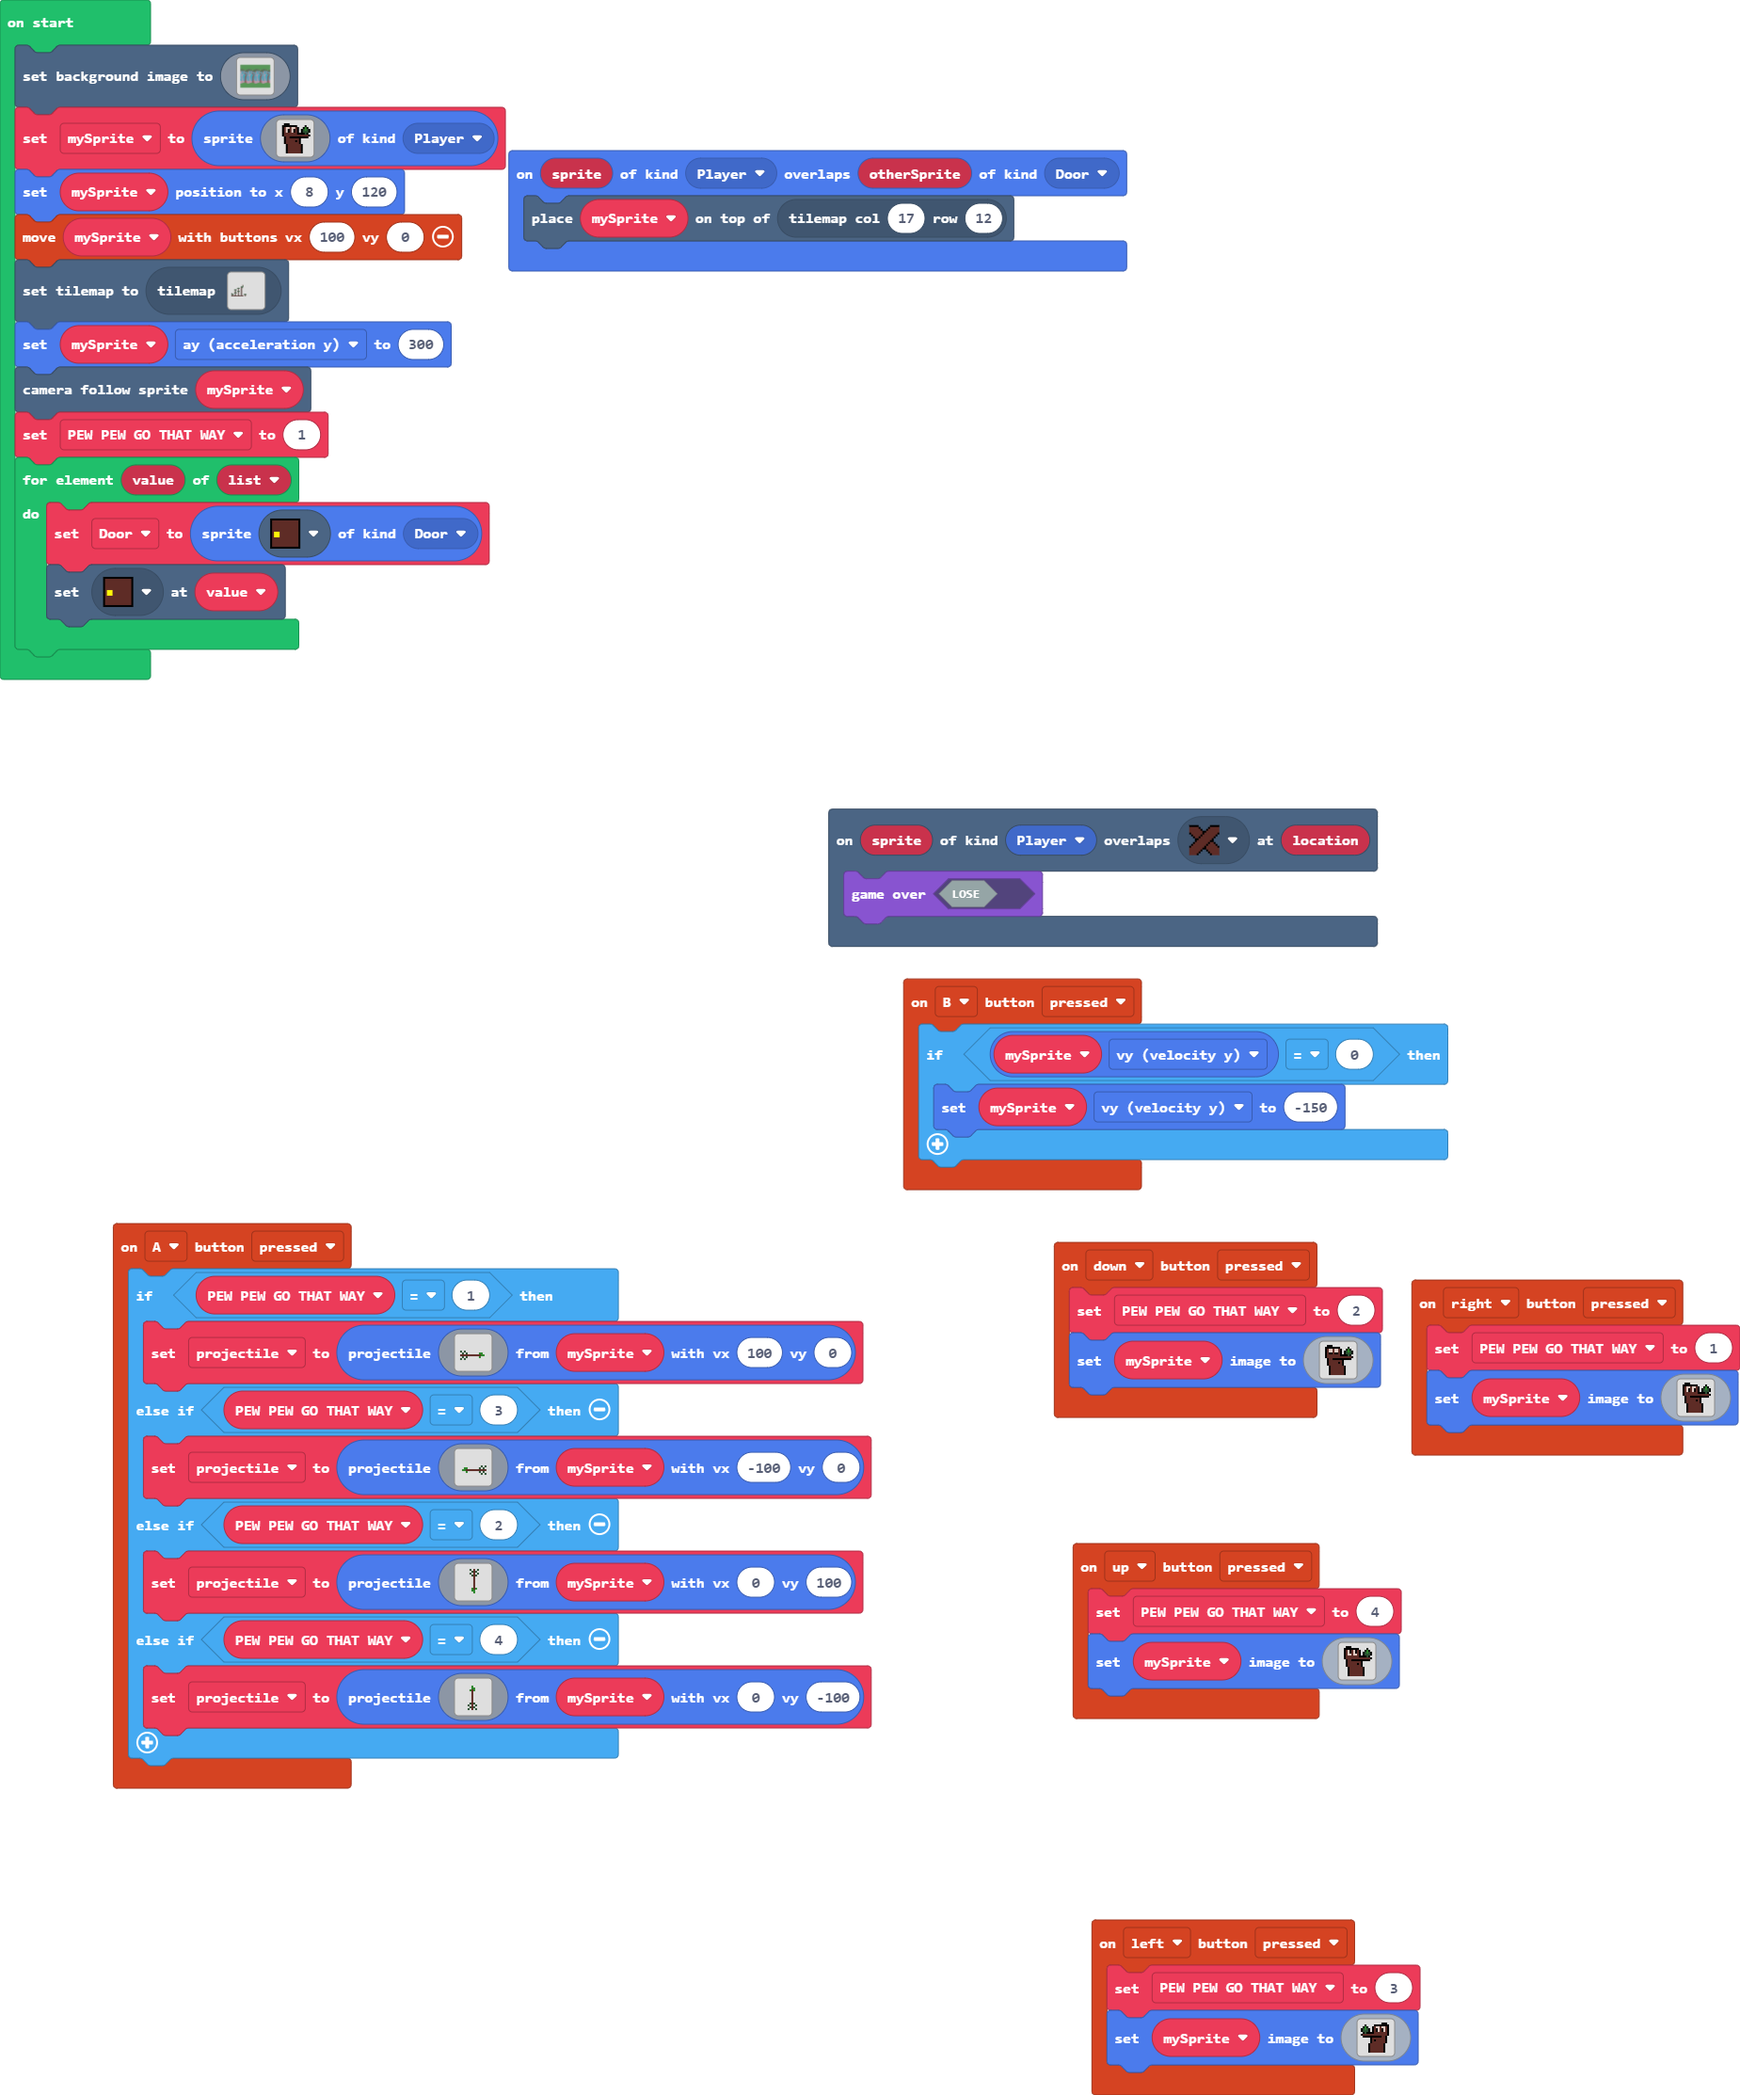
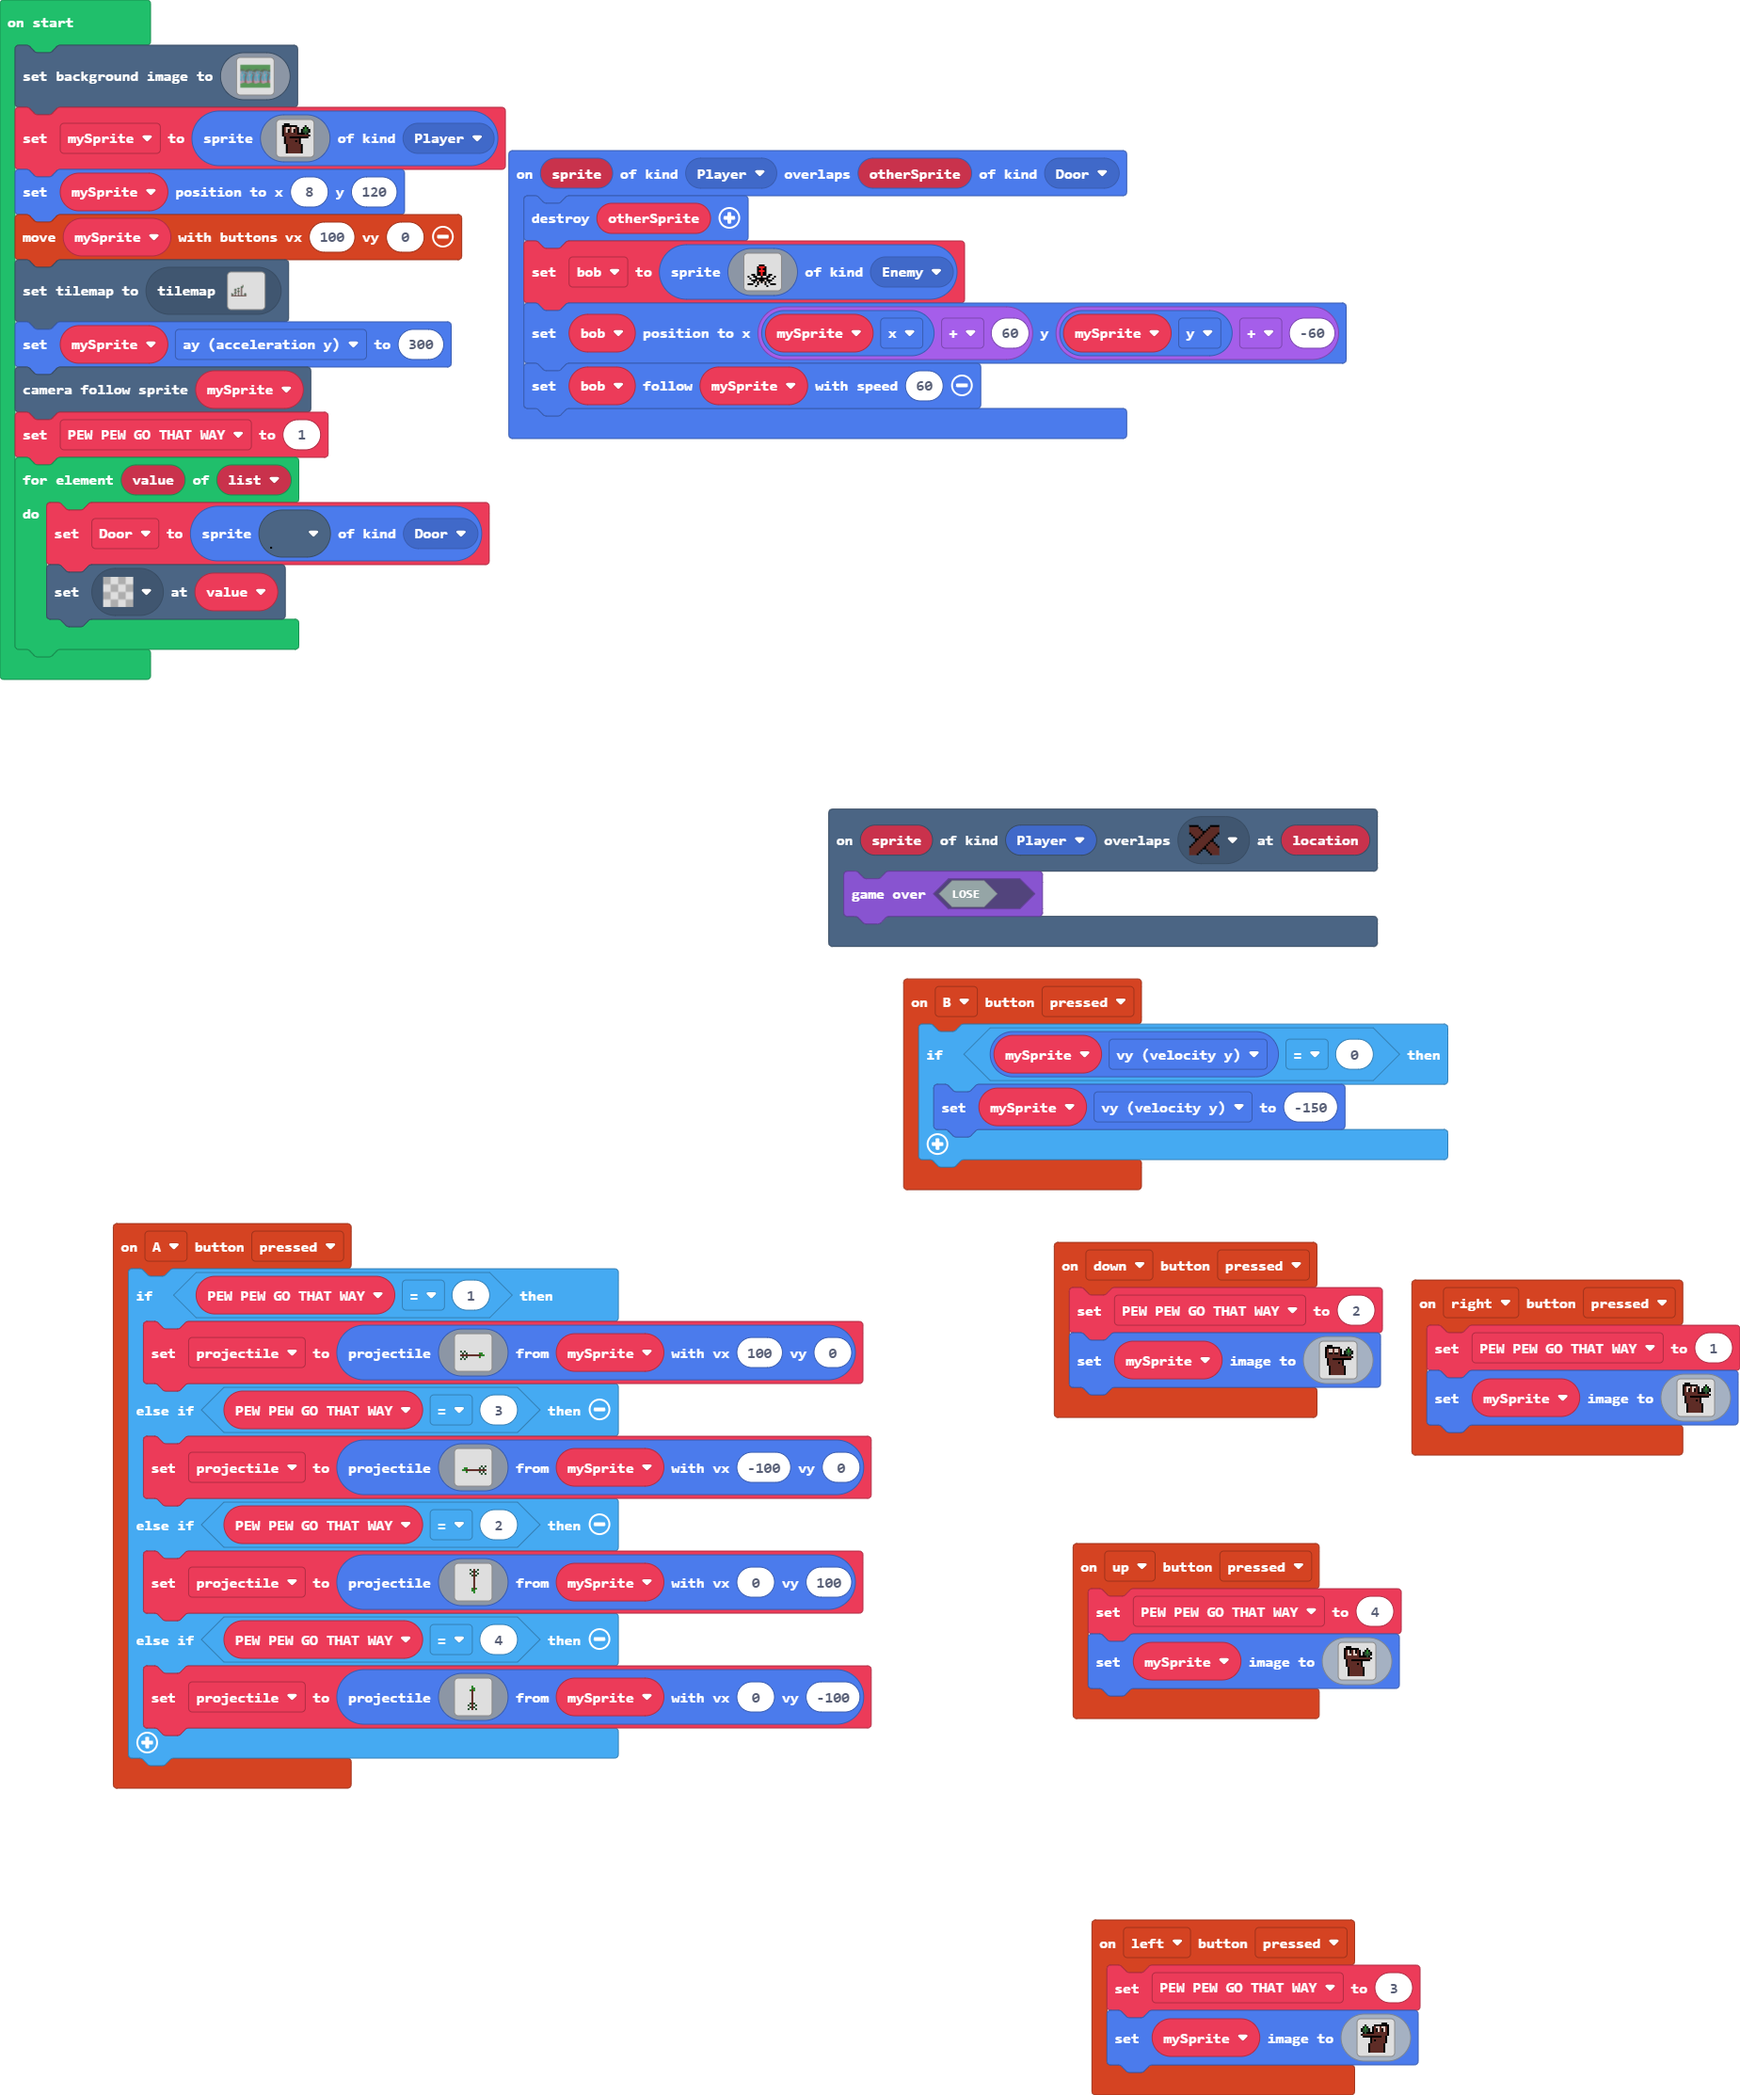
Update main.blocks, main.ts, tilemap.g.jres, tilemap.g.ts

Changed region(s): [[0.2774, 0.093, 0.7707, 0.217], [0.1541, 0.248, 0.185, 0.279], [0.0617, 0.279, 0.0925, 0.31]]

diff --git a/tilemap.g.ts b/tilemap.g.ts
@@ -34,25 +34,6 @@ namespace myTiles {
 . . . . . . . . . . . . . . . . 
 . . . . . . . . . . . . . . . . 
 `, [myTiles.transparency16], TileScale.Sixteen);
-            case "level2":
-            case "level2":return tiles.createTilemap(hex`2800100000000000000000000000000000000000000000000000000000000000000000000000000000000000000000000000000000000000000000050000000000000000000000000000000000000000000000000000000000000000000000000000000200000000000000000000000000000000000000000000000000000000000000000000000000020202000000000000000000000000000000000000000000000000000000000000000000000000000102000000000000000000000000000000000000000000000000000000000000000000020202000001000000000000000000000000000000000000000000000000000000000000000000000001000000010000000000000000000000000000000000000000000000000000000000000202020000010000000100000000000000000000000000000000000000000000000000000000000000010000000100000001000000000000000000000000000000000000000000000000000000000000000100000202020000010000000000000000000000000000000000000000000000000000000000000001000000010000000100000000000000000000000000000000000000000000000000000000000002020200000100000001000000000000000000000000000000000000000000000000000003000000000100000001000000010000000000000000000000000000000000000000000000000000020202000001000000010000000100000002020200000000000000000000000000000000000000000001000000010000000100000001000000000100000000000000000000000000000000000000000004010404040104040401040404010404000001000000000000000000000000000000000000000000`, img`
-................2.......................
-................2.......................
-...............22.......................
-.............2222.......................
-.............22.2.......................
-........222..2..2.......................
-.............2..2.......................
-....222......2..2.......................
-.............2..2.......................
-........222..2..2.......................
-.........2...2..2.......................
-....222..2...2..2.......................
-.....2...2...2..2.......................
-222..2...2...2..2222....................
-.2...2...2...2..2.......................
-.2...2...2...2..2.......................
-`, [myTiles.transparency16,myTiles.tile1,myTiles.tile2,myTiles.tile3,myTiles.tile4,myTiles.tile5], TileScale.Sixteen);
             case "level3":
             case "level3":return tiles.createTilemap(hex`1000100000000000000000000000000000000000000000000000000000000000000000000000000000000000000000000000000000000000000000000000000000000000000000000000000000000000000000000000000000000000000000000000000000000000000000000000000000000000000000000000000000000000000000000000000000000000000000000000000000000000000000000000000000000000000000000000000000000000000000000000000000000000000000000000000000000000000000000000000000000000000000000000000000000000000000000000000000000000000000000000000000000000000000000000000000000000`, img`
 . . . . . . . . . . . . . . . . 
@@ -72,6 +53,44 @@ namespace myTiles {
 . . . . . . . . . . . . . . . . 
 . . . . . . . . . . . . . . . . 
 `, [myTiles.transparency16], TileScale.Sixteen);
+            case "level4":
+            case "level4":return tiles.createTilemap(hex`1000100000000000000000000000000000000000000000000000000000000000000000000000000000000000000000000000000000000000000000000000000000000000000000000000000000000000000000000000000000000000000000000000000000000000000000000000000000000000000000000000000000000000000000000000000000000000000000000000000000000000000000000000000000000000000000000000000000000000000000000000000000000000000000000000000000000000000000000000000000000000000000000000000000000000000000000000000000000000000000000000000000000000000000000000000000000000`, img`
+. . . . . . . . . . . . . . . . 
+. . . . . . . . . . . . . . . . 
+. . . . . . . . . . . . . . . . 
+. . . . . . . . . . . . . . . . 
+. . . . . . . . . . . . . . . . 
+. . . . . . . . . . . . . . . . 
+. . . . . . . . . . . . . . . . 
+. . . . . . . . . . . . . . . . 
+. . . . . . . . . . . . . . . . 
+. . . . . . . . . . . . . . . . 
+. . . . . . . . . . . . . . . . 
+. . . . . . . . . . . . . . . . 
+. . . . . . . . . . . . . . . . 
+. . . . . . . . . . . . . . . . 
+. . . . . . . . . . . . . . . . 
+. . . . . . . . . . . . . . . . 
+`, [myTiles.transparency16], TileScale.Sixteen);
+            case "level2":
+            case "level2":return tiles.createTilemap(hex`2800100000000000000000000000000000000000000000000000000000000000000000000000000000000000000000000000000000000000000000050000000000000000000000000000000000000000000000000000000000000000000000000000000200000000000000000000000000000000000000000000000000000000000000000000000000020202000000000000000000000000000000000000000000000000000000000000000000000000000102000000000000000000000000000000000000000000000000000000000000000000020202000001000000000000000000000000000000000000000000000000000000000000000300000001000000010000000000000000000000000000000000000000000000000000000000000202020000010000000100000000000000000000000000000000000000000000000000000000000000010000000100000001000000000000000000000000000000000000000000000000000000000000000100000202020000010000000000000000000000000000000000000000000000000000000000000001000000010000000100000000000000000000000000000000000000000000000000000000000002020200000100000001000000000000000000000000000000000000000000000000000003000000000100000001000000010000000003000000000000000000000000000000000000000000020202000001000000010000000100000002020200000000000000000000000000000000000000000001000000010000000100000001000000000100000000000000000000000000000000000000000004010404040104040401040404010404040401040000000000000000000000000000000000000000`, img`
+........................................
+........................................
+...............2........................
+.............222........................
+.............22.........................
+........222..2..........................
+.............2..........................
+....222......2..........................
+.............2..........................
+........222..2..........................
+.........2...2..........................
+....222..2...2..........................
+.....2...2...2..........................
+222..2...2...2...222....................
+.2...2...2...2....2.....................
+.2...2...2...2....2.....................
+`, [myTiles.transparency16,myTiles.tile1,myTiles.tile2,myTiles.tile3,myTiles.tile4,myTiles.tile5], TileScale.Sixteen);
         }
         return null;
     })

diff --git a/main.ts b/main.ts
@@ -1,5 +1,6 @@
 namespace SpriteKind {
     export const Door = SpriteKind.create()
+    export const bob = SpriteKind.create()
 }
 let list: tiles.Location[] = []
 controller.up.onEvent(ControllerButtonEvent.Pressed, function () {
@@ -129,7 +130,27 @@ controller.left.onEvent(ControllerButtonEvent.Pressed, function () {
         `)
 })
 sprites.onOverlap(SpriteKind.Player, SpriteKind.Door, function (sprite, otherSprite) {
-    tiles.placeOnTile(mySprite, tiles.getTileLocation(17, 12))
+    sprites.destroy(otherSprite)
+    bob = sprites.create(img`
+        . . . . . . . . . . . . . . . . 
+        . . . . . . . . . . . . . . . . 
+        . . . . . . . . . . . . . . . . 
+        . . . . . . . . . . . . . . . . 
+        . . . . . . f f f . . . . . . . 
+        . . . . . f 2 2 2 f . . . . . . 
+        . . . . . f f 2 f f . . . . . . 
+        . . . . . f 2 2 2 f . . . . . . 
+        . . . . . f f 2 f f . . . . . . 
+        . . f f . f f 2 f f . f f . . . 
+        f . . f f . d f d . f f . . f . 
+        . f . . f f f f f f f . . f . . 
+        . . f f f d f f f d f f f . . . 
+        . . . f . f d f d f . f . . . . 
+        f f f . . f . . . f . . f f f . 
+        . . . . f . . . . . f . . . . . 
+        `, SpriteKind.Enemy)
+    bob.setPosition(mySprite.x + 60, mySprite.y + -60)
+    bob.follow(mySprite, 60)
 })
 controller.right.onEvent(ControllerButtonEvent.Pressed, function () {
     PEW_PEW_GO_THAT_WAY = 1
@@ -176,6 +197,7 @@ controller.down.onEvent(ControllerButtonEvent.Pressed, function () {
 scene.onOverlapTile(SpriteKind.Player, assets.tile`myTile2`, function (sprite, location) {
     game.gameOver(false)
 })
+let bob: Sprite = null
 let projectile: Sprite = null
 let Door: Sprite = null
 let PEW_PEW_GO_THAT_WAY = 0
@@ -327,6 +349,6 @@ mySprite.ay = 300
 scene.cameraFollowSprite(mySprite)
 PEW_PEW_GO_THAT_WAY = 1
 for (let value of list) {
-    Door = sprites.create(assets.tile`myTile3`, SpriteKind.Door)
-    tiles.setTileAt(value, assets.tile`myTile3`)
+    Door = sprites.create(assets.tile`myTile1`, SpriteKind.Door)
+    tiles.setTileAt(value, assets.tile`transparency16`)
 }
